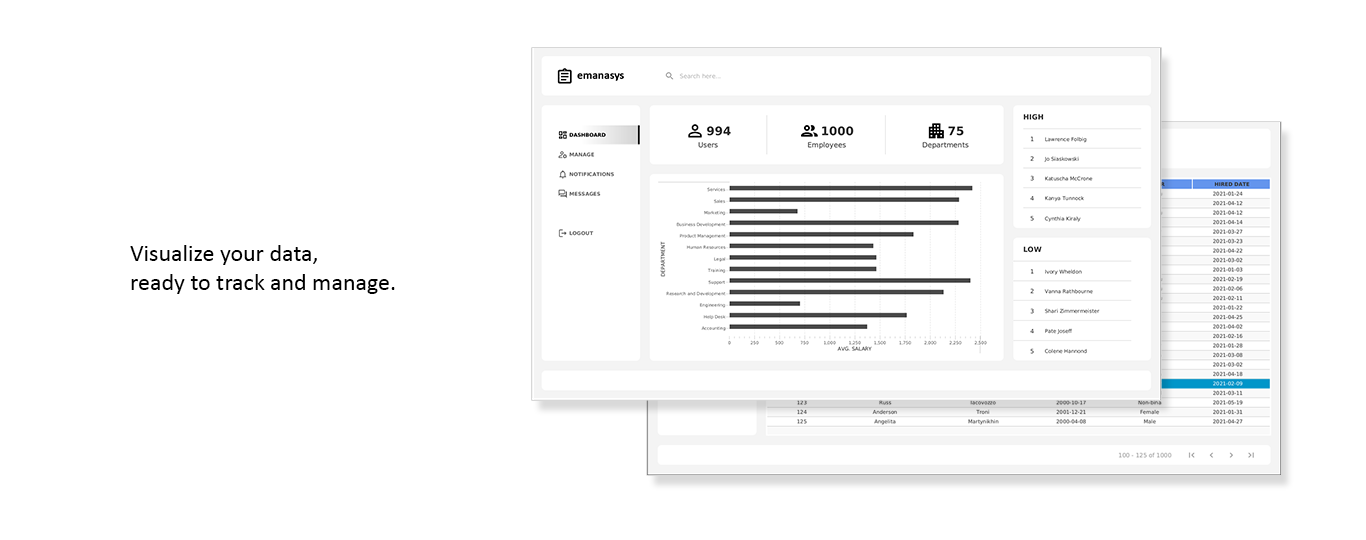
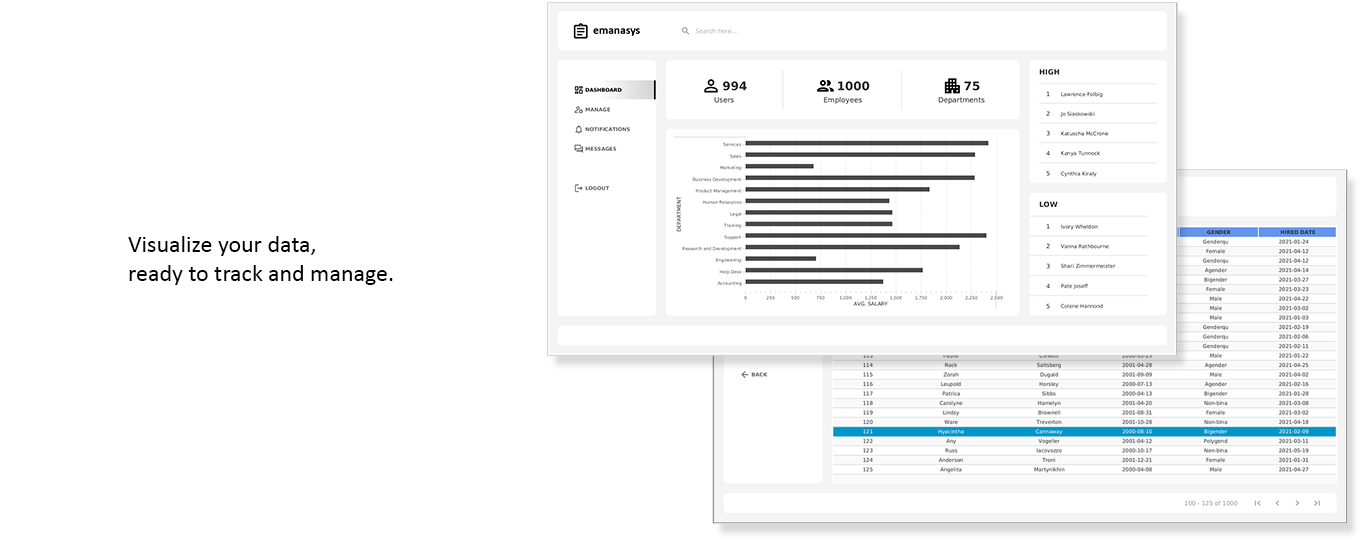
update images mockup, readme

diff --git a/README.md b/README.md
@@ -2,11 +2,9 @@
 ## Features
 ![Visualize your data, ready to track and manage.](src/assets/1.png)
 ![Easy to setup and connect, speed up your workflow](src/assets/2.png)
+![database_schema](src/assets/3.png)
 
 ## Environment :
 * Java 15.0.2
 * JavaFX 16
 * JDBC Driver 8.0.23
-
-### Database schema
-![database_schema](src/assets/database_white.png)
